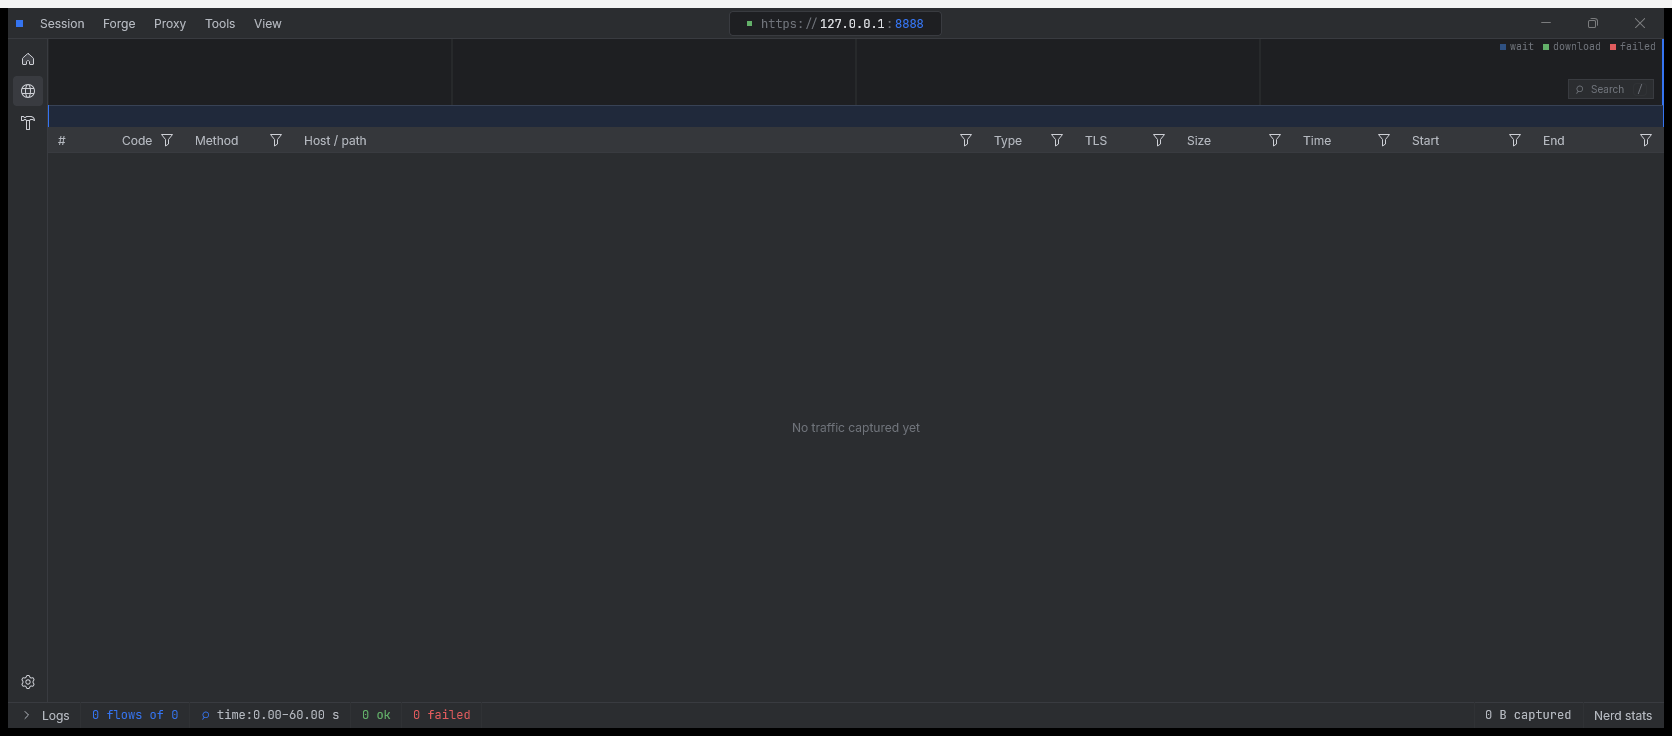
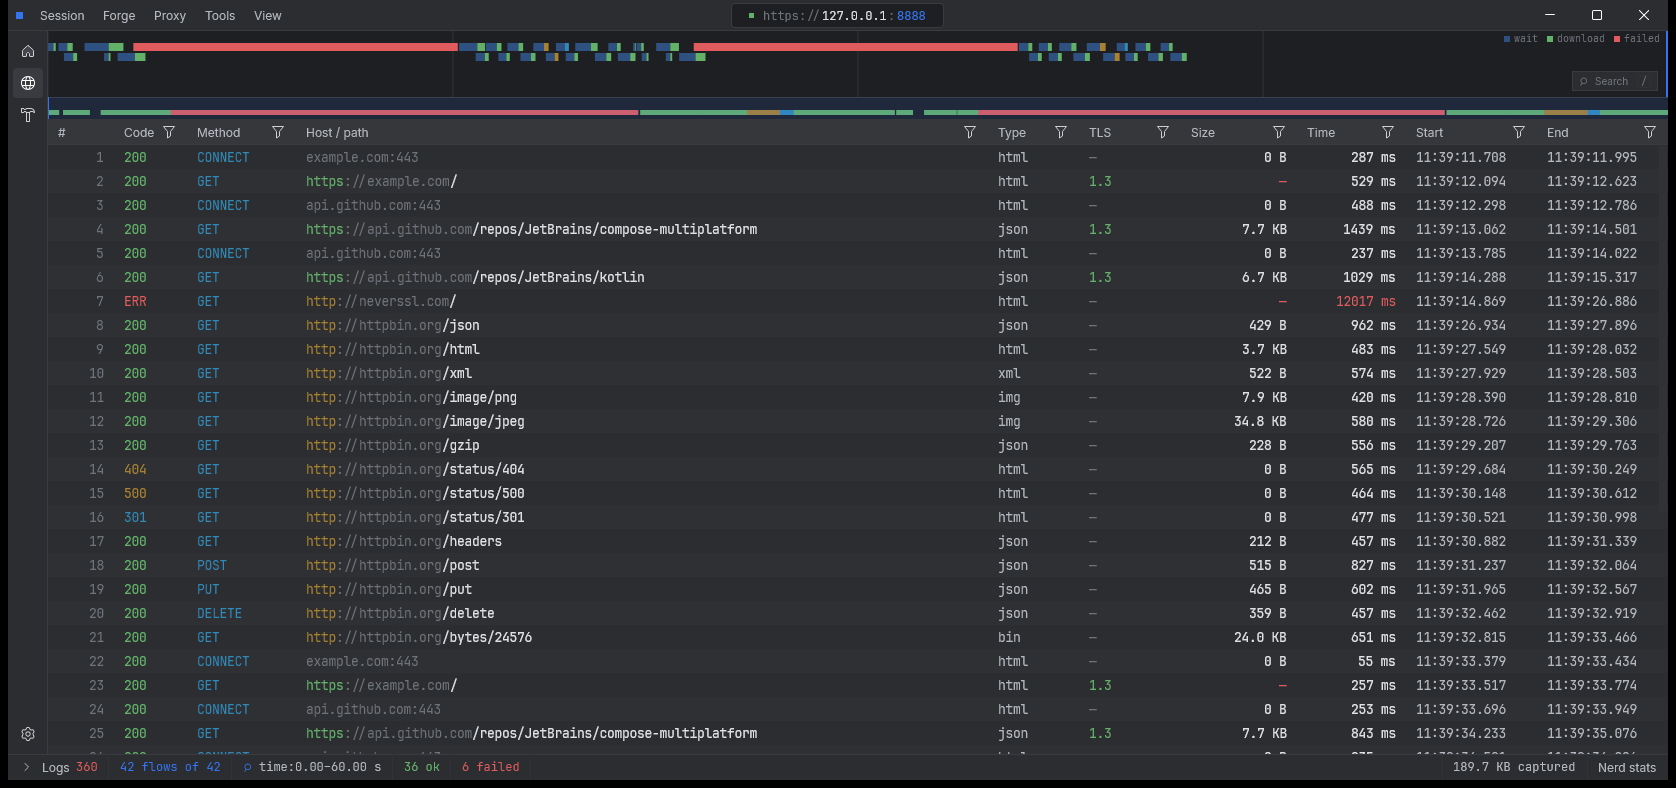
README: real screenshots and the home greetings
Replaces the empty-state captures. All three are the app running against its
own sidecar with live traffic through it: the flow table with CONNECT tunnels
beside the requests inside them, TLS versions, content kinds and timings.

Adds the Home screen and lists the ten greeting lines it picks from, which
were not documented anywhere outside the source.

diff --git a/README.md b/README.md
@@ -7,6 +7,10 @@ other traffic.
 
 ![The capture screen](docs/capture.png)
 
+Every row above is real: `CONNECT` tunnels sitting beside the requests that
+travel inside them, TLS versions, content kinds, and where each millisecond
+went.
+
 ## What it does
 
 ### Capture
@@ -29,9 +33,9 @@ other traffic.
   captured flows, imported HAR entries and API client responses.
 - **A waterfall and phase timeline** for where a request actually spent its
   time.
-- **CONNECT tunnels as first-class flows.** mitmproxy answers CONNECT without
-  raising the ordinary hooks, so a tunnel — and any refusal to open one — would
-  otherwise leave no trace at all.
+- **`CONNECT` tunnels as first-class flows.** mitmproxy answers `CONNECT`
+  without raising the ordinary hooks, so a tunnel — and any refusal to open one
+  — would otherwise leave no trace at all.
 - **Streamed bodies.** Anything past the sidecar's threshold arrives chunk by
   chunk and is reassembled before it reaches the cache, still
   `Content-Encoding`-encoded from the wire, so it is inflated on the way in.
@@ -61,6 +65,29 @@ other traffic.
   collection as a zip.
 - **Send history**, per-request settings, and an unsaved-changes guard that
   stops a checkout overwriting work in progress.
+
+### Home
+
+![The home dashboard](docs/home.png)
+
+Proxy status, session counters, and a thirty-day activity heatmap. It also
+greets you, and it does not take itself seriously about it — one of ten lines,
+picked at random and held for as long as you stay on the screen:
+
+> Don't panic, **and always know where your towel is.**
+> May the packets be with you, **always.**
+> Live long and **inspect traffic.**
+> It's dangerous to go alone, **take this proxy.**
+> You are the one, **Neo of the network.**
+> Winter is coming, **so is the timeout.**
+> One does not simply **walk into production.**
+> Roads? Where we're going **we need no roads.**
+> So say we all, **and so say the sockets.**
+> Welcome back, **traveler.**
+
+They live in `Greetings` in
+[`ui/layouts/home/Home.kt`](src/main/kotlin/ui/layouts/home/Home.kt). Adding one
+is a one-line pull request, and the bar for entry is low.
 
 ### Plugins
 
